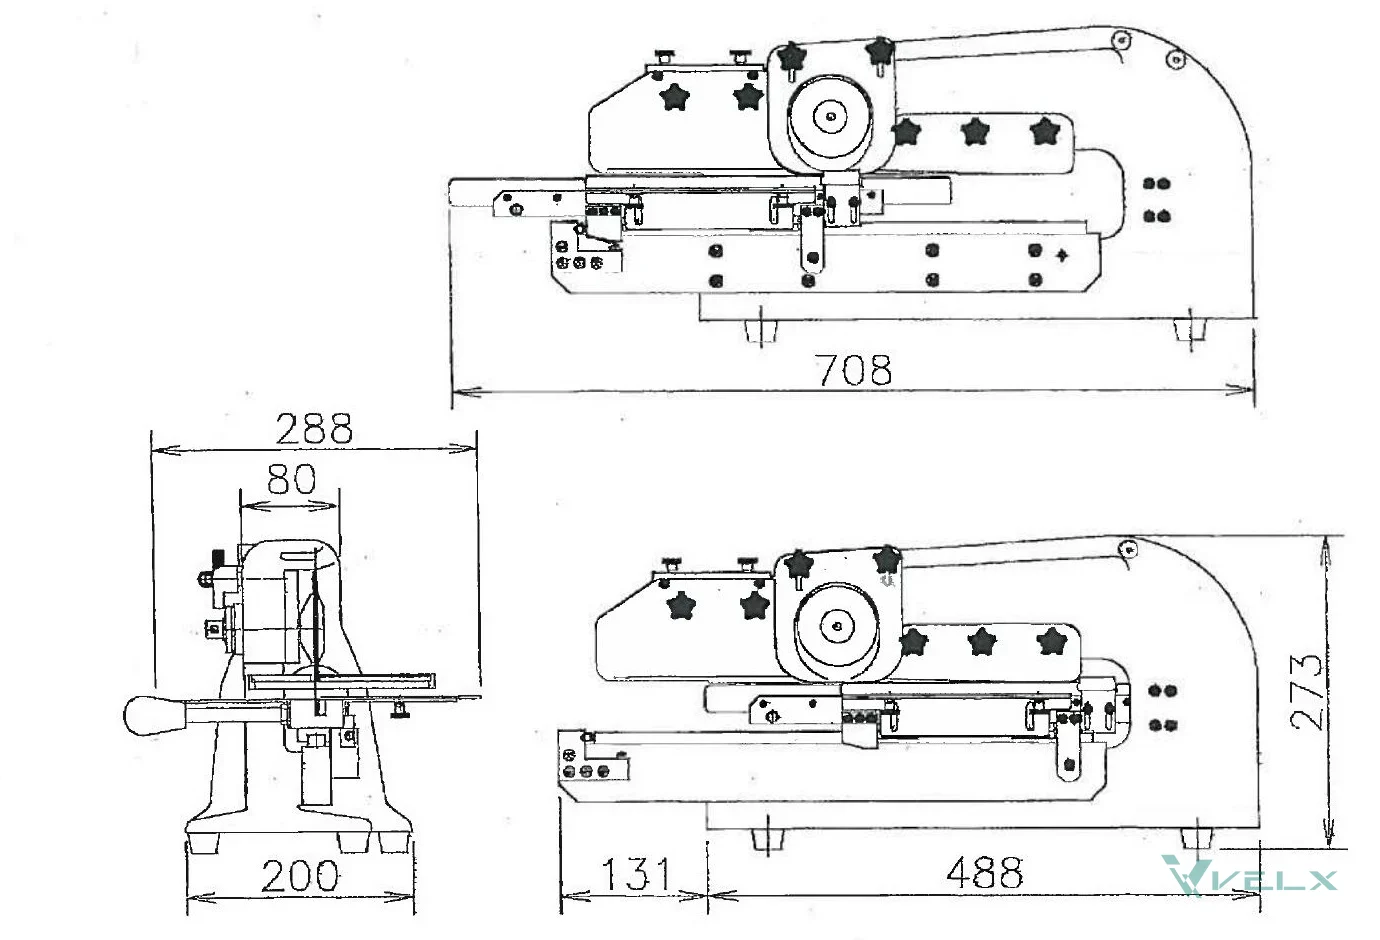
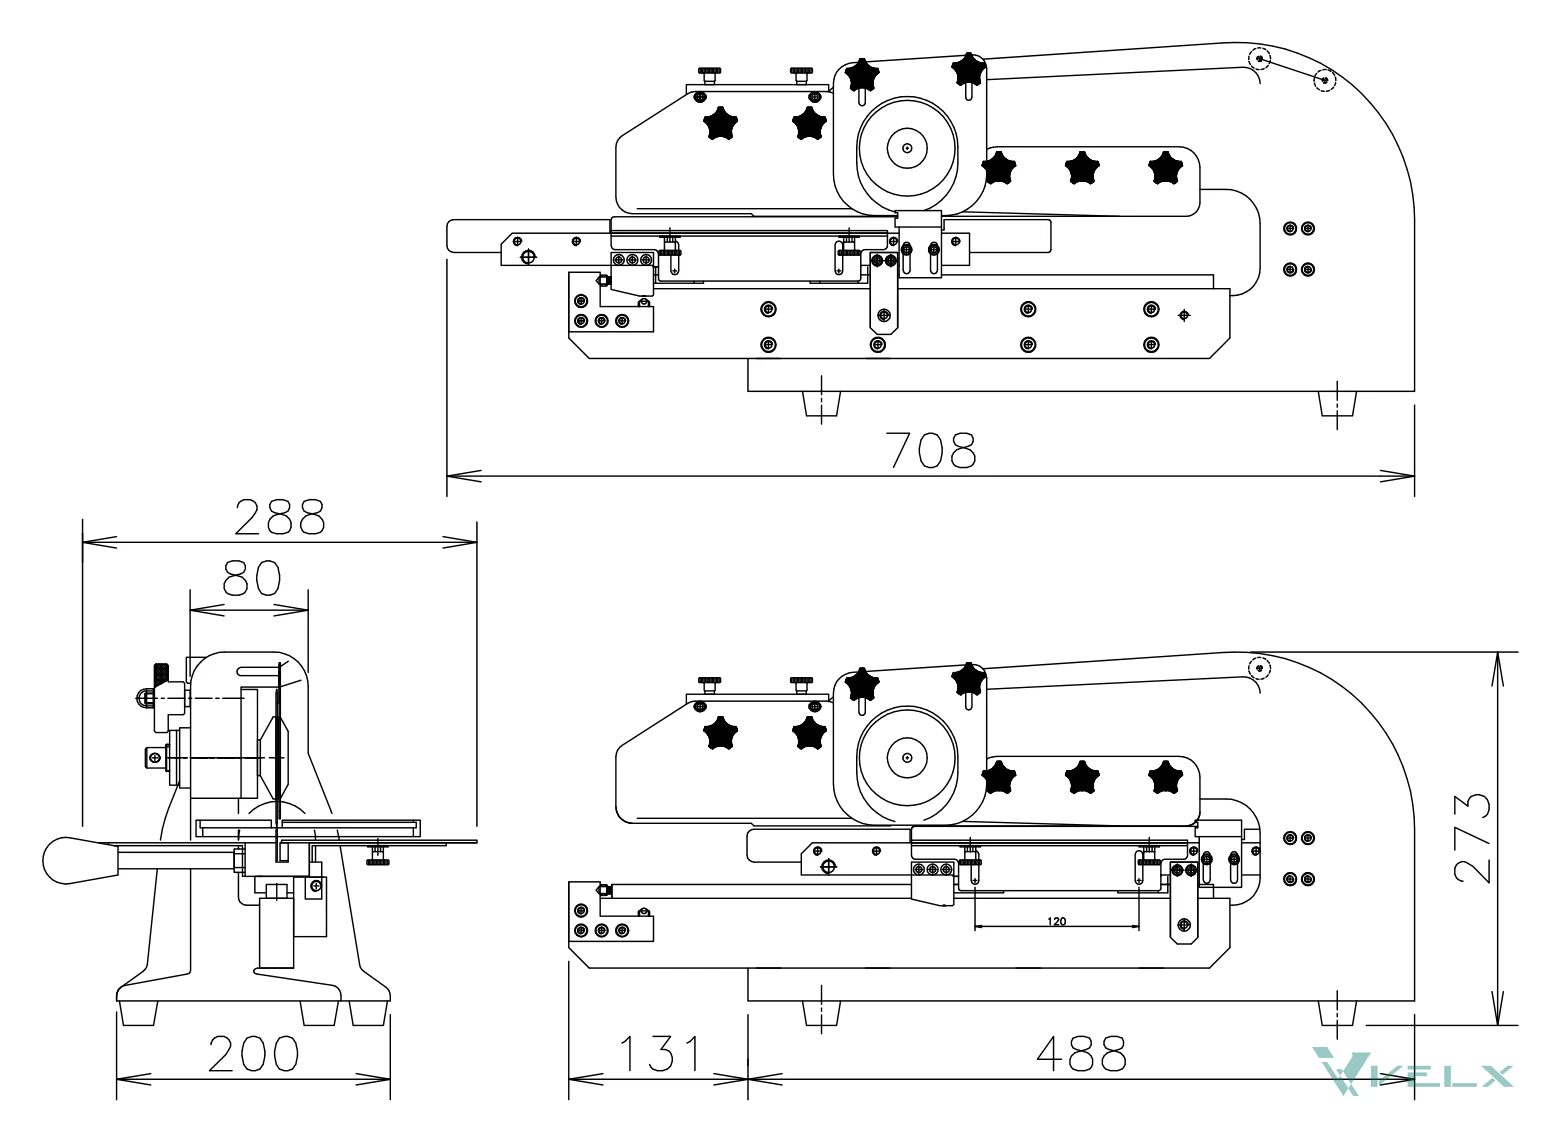
フッターロゴ表記をヴェルクス株式会社に修正

diff --git a/owner.html b/owner.html
@@ -90,104 +90,71 @@
     <div class="section-label">FOR OWNERS</div>
     <h2 class="section-h2">ご購入者様専用ページ</h2>
     <div class="section-divider"></div>
-    <p class="section-lead">取扱説明書に記載のパスワードを入力すると、刃の交換手順などの解説動画をご覧いただけます。</p>
+    <p class="section-lead">取扱説明書に記載のパスワードを入力すると、ご購入いただいた機種の刃の交換手順などの解説動画をご覧いただけます。</p>
   </div>
 
   <div id="gate" class="gate-box">
     <label for="pw" class="gate-label">パスワード</label>
     <div class="gate-row">
-      <input id="pw" type="password" autocomplete="off" inputmode="latin" placeholder="説明書に記載のパスワード" class="gate-input">
+      <input id="pw" type="password" autocomplete="off" inputmode="latin" placeholder="取扱説明書に記載のパスワード" class="gate-input">
       <button id="pw-btn" class="btn-primary" type="button">動画を見る</button>
     </div>
     <p id="pw-msg" class="gate-msg" aria-live="polite"></p>
-    <p class="gate-note">※ 本ページの動画は、VELX製品をご購入いただいたお客様向けの資料です。パスワードの第三者への共有はご遠慮ください。</p>
+    <p class="gate-note">※ パスワードは機種ごとに異なり、ご購入いただいた機種の解説動画のみご覧いただけます。第三者への共有はご遠慮ください。</p>
   </div>
 
   <div id="videos" hidden>
-    <div class="subh" style="margin-top:32px;">刃の交換方法</div>
-    <p class="crk-p" style="margin-bottom:12px;">上刃・下刃の交換手順です。作業は必ず電源を切ってから行ってください。</p>
-    <div class="dwg-grid" style="grid-template-columns:repeat(auto-fit,minmax(340px,1fr));gap:24px;margin-top:12px;">
-    <div class="dwg-card">
-      <div class="dwg-head"><span class="dwg-model" style="font-size:1.1rem;">EM-260 刃の交換方法</span><span class="dwg-note">シングル機種（手動）EM-260</span></div>
-      <div class="video-frame"><iframe src="https://www.youtube-nocookie.com/embed/100VCb46JAQ?rel=0&modestbranding=1" title="EM-260 刃の交換方法" loading="lazy" allow="accelerometer; autoplay; clipboard-write; encrypted-media; gyroscope; picture-in-picture; web-share" allowfullscreen referrerpolicy="strict-origin-when-cross-origin"></iframe></div>
-    </div>
-    <div class="dwg-card">
-      <div class="dwg-head"><span class="dwg-model" style="font-size:1.1rem;">EM-360 刃の交換方法</span><span class="dwg-note">シングル機種（手動）EM-360</span></div>
-      <div class="video-frame"><iframe src="https://www.youtube-nocookie.com/embed/T94EBrJYfXw?rel=0&modestbranding=1" title="EM-360 刃の交換方法" loading="lazy" allow="accelerometer; autoplay; clipboard-write; encrypted-media; gyroscope; picture-in-picture; web-share" allowfullscreen referrerpolicy="strict-origin-when-cross-origin"></iframe></div>
-    </div>
-    <div class="dwg-card">
-      <div class="dwg-head"><span class="dwg-model" style="font-size:1.1rem;">EM-460 刃の交換方法</span><span class="dwg-note">シングル機種（手動）EM-460</span></div>
-      <div class="video-frame"><iframe src="https://www.youtube-nocookie.com/embed/o46C6jXYqPE?rel=0&modestbranding=1" title="EM-460 刃の交換方法" loading="lazy" allow="accelerometer; autoplay; clipboard-write; encrypted-media; gyroscope; picture-in-picture; web-share" allowfullscreen referrerpolicy="strict-origin-when-cross-origin"></iframe></div>
-    </div>
-    <div class="dwg-card">
-      <div class="dwg-head"><span class="dwg-model" style="font-size:1.1rem;">EM-260M 刃の交換方法</span><span class="dwg-note">モーター機種 EM-260M</span></div>
-      <div class="video-frame"><iframe src="https://www.youtube-nocookie.com/embed/Q6uzg2i1Xq8?rel=0&modestbranding=1" title="EM-260M 刃の交換方法" loading="lazy" allow="accelerometer; autoplay; clipboard-write; encrypted-media; gyroscope; picture-in-picture; web-share" allowfullscreen referrerpolicy="strict-origin-when-cross-origin"></iframe></div>
-    </div>
-    <div class="dwg-card">
-      <div class="dwg-head"><span class="dwg-model" style="font-size:1.1rem;">EM-360M 刃の交換方法</span><span class="dwg-note">モーター機種 EM-360M</span></div>
-      <div class="video-frame"><iframe src="https://www.youtube-nocookie.com/embed/wOZz5q6a_4Q?rel=0&modestbranding=1" title="EM-360M 刃の交換方法" loading="lazy" allow="accelerometer; autoplay; clipboard-write; encrypted-media; gyroscope; picture-in-picture; web-share" allowfullscreen referrerpolicy="strict-origin-when-cross-origin"></iframe></div>
-    </div>
-    <div class="dwg-card">
-      <div class="dwg-head"><span class="dwg-model" style="font-size:1.1rem;">EM-460M 刃の交換方法</span><span class="dwg-note">モーター機種 EM-460M</span></div>
-      <div class="video-frame"><iframe src="https://www.youtube-nocookie.com/embed/TL4uD5UUozs?rel=0&modestbranding=1" title="EM-460M 刃の交換方法" loading="lazy" allow="accelerometer; autoplay; clipboard-write; encrypted-media; gyroscope; picture-in-picture; web-share" allowfullscreen referrerpolicy="strict-origin-when-cross-origin"></iframe></div>
-    </div>
-    <div class="dwg-card">
-      <div class="dwg-head"><span class="dwg-model" style="font-size:1.1rem;">スプリッター（シングル MS）刃の交換方法</span><span class="dwg-note">実装基板スプリッター MS20／MS25</span></div>
-      <div class="video-frame"><iframe src="https://www.youtube-nocookie.com/embed/Tvtu7lJP3a8?rel=0&modestbranding=1" title="スプリッター（シングル MS）刃の交換方法" loading="lazy" allow="accelerometer; autoplay; clipboard-write; encrypted-media; gyroscope; picture-in-picture; web-share" allowfullscreen referrerpolicy="strict-origin-when-cross-origin"></iframe></div>
-    </div>
-    <div class="dwg-card">
-      <div class="dwg-head"><span class="dwg-model" style="font-size:1.1rem;">スプリッター（ダブル MW）刃の交換方法</span><span class="dwg-note">実装基板スプリッター MW21／MW25</span></div>
-      <div class="video-frame"><iframe src="https://www.youtube-nocookie.com/embed/VJiZvf9jNRk?rel=0&modestbranding=1" title="スプリッター（ダブル MW）刃の交換方法" loading="lazy" allow="accelerometer; autoplay; clipboard-write; encrypted-media; gyroscope; picture-in-picture; web-share" allowfullscreen referrerpolicy="strict-origin-when-cross-origin"></iframe></div>
-    </div>
-    </div>
-    <div class="subh" style="margin-top:32px;">刃のギャップ（隙間）調整</div>
-    <p class="crk-p" style="margin-bottom:12px;">上刃と下刃の隙間の合わせ方です。刃を交換したあとは必ず確認してください。</p>
-    <div class="dwg-grid" style="grid-template-columns:repeat(auto-fit,minmax(340px,1fr));gap:24px;margin-top:12px;">
-    <div class="dwg-card">
-      <div class="dwg-head"><span class="dwg-model" style="font-size:1.1rem;">EMW-360 / EMW-460 ギャップ調整</span><span class="dwg-note">ダブル機種（シングル機種も同じ手順です）</span></div>
-      <div class="video-frame"><iframe src="https://www.youtube-nocookie.com/embed/CcWueVFVA6g?rel=0&modestbranding=1" title="EMW-360 / EMW-460 ギャップ調整" loading="lazy" allow="accelerometer; autoplay; clipboard-write; encrypted-media; gyroscope; picture-in-picture; web-share" allowfullscreen referrerpolicy="strict-origin-when-cross-origin"></iframe></div>
-    </div>
-    <div class="dwg-card">
-      <div class="dwg-head"><span class="dwg-model" style="font-size:1.1rem;">スプリッター（シングル MS）ギャップ調整</span><span class="dwg-note">実装基板スプリッター MS20／MS25</span></div>
-      <div class="video-frame"><iframe src="https://www.youtube-nocookie.com/embed/9em6K_jLOEk?rel=0&modestbranding=1" title="スプリッター（シングル MS）ギャップ調整" loading="lazy" allow="accelerometer; autoplay; clipboard-write; encrypted-media; gyroscope; picture-in-picture; web-share" allowfullscreen referrerpolicy="strict-origin-when-cross-origin"></iframe></div>
-    </div>
-    <div class="dwg-card">
-      <div class="dwg-head"><span class="dwg-model" style="font-size:1.1rem;">スプリッター（ダブル MW）ギャップ調整</span><span class="dwg-note">実装基板スプリッター MW21／MW25</span></div>
-      <div class="video-frame"><iframe src="https://www.youtube-nocookie.com/embed/98wTUg45vBQ?rel=0&modestbranding=1" title="スプリッター（ダブル MW）ギャップ調整" loading="lazy" allow="accelerometer; autoplay; clipboard-write; encrypted-media; gyroscope; picture-in-picture; web-share" allowfullscreen referrerpolicy="strict-origin-when-cross-origin"></iframe></div>
-    </div>
-    </div>
-    <div class="subh" style="margin-top:32px;">操作手順</div>
-    <p class="crk-p" style="margin-bottom:12px;">基本操作の流れです。</p>
-    <div class="dwg-grid" style="grid-template-columns:repeat(auto-fit,minmax(340px,1fr));gap:24px;margin-top:12px;">
-    <div class="dwg-card">
-      <div class="dwg-head"><span class="dwg-model" style="font-size:1.1rem;">モーター機種 操作手順</span><span class="dwg-note">EM-260M／360M／460M の手動⇔モーター切替と操作</span></div>
-      <div class="video-frame"><iframe src="https://www.youtube-nocookie.com/embed/QFiVkYADPGk?rel=0&modestbranding=1" title="モーター機種 操作手順" loading="lazy" allow="accelerometer; autoplay; clipboard-write; encrypted-media; gyroscope; picture-in-picture; web-share" allowfullscreen referrerpolicy="strict-origin-when-cross-origin"></iframe></div>
-    </div>
-    <div class="dwg-card">
-      <div class="dwg-head"><span class="dwg-model" style="font-size:1.1rem;">基板スプリッター 操作手順</span><span class="dwg-note">実装基板スプリッター MS／MW の基本操作</span></div>
-      <div class="video-frame"><iframe src="https://www.youtube-nocookie.com/embed/7RYssgToTq0?rel=0&modestbranding=1" title="基板スプリッター 操作手順" loading="lazy" allow="accelerometer; autoplay; clipboard-write; encrypted-media; gyroscope; picture-in-picture; web-share" allowfullscreen referrerpolicy="strict-origin-when-cross-origin"></iframe></div>
-    </div>
-    </div>
-    <div class="note-box" style="margin-top:28px;">動画はお客様専用の限定公開です。ご不明な点は <a href="index.html#contact" style="color:var(--teal);">お問い合わせ</a> または TEL 0267-28-9853 までご連絡ください。</div>
+    <div class="subh" id="grp-name" style="margin-top:32px;"></div>
+    <p class="crk-p" id="grp-note" style="margin-bottom:12px;"></p>
+    <div class="dwg-grid" id="grid" style="grid-template-columns:repeat(auto-fit,minmax(340px,1fr));gap:24px;margin-top:12px;"></div>
+    <div class="note-box" style="margin-top:28px;">動画はご購入者様専用の限定公開です。ご不明な点は <a href="index.html#contact" style="color:var(--teal);">お問い合わせ</a> または TEL 0267-28-9853 までご連絡ください。 <a href="#" id="pw-reset" style="color:var(--teal);margin-left:12px;">別の機種のパスワードを入力</a></div>
   </div>
 </section>
 <script>
 (function(){
[2 lines of base64/hex data omitted]
   var gate=document.getElementById('gate'), vids=document.getElementById('videos'), inp=document.getElementById('pw'), btn=document.getElementById('pw-btn'), msg=document.getElementById('pw-msg');
-  function show(){ gate.hidden=true; vids.hidden=false; }
-  try { if (sessionStorage.getItem('velx_owner')==='1') show(); } catch(e) {}
-  async function sha256(s){ var b=new TextEncoder().encode(s); var d=await crypto.subtle.digest('SHA-256', b); return Array.from(new Uint8Array(d)).map(function(x){return x.toString(16).padStart(2,'0');}).join(''); }
+  var grid=document.getElementById('grid'), gname=document.getElementById('grp-name'), gnote=document.getElementById('grp-note');
+  function b64(s){ var bin=atob(s), a=new Uint8Array(bin.length); for(var i=0;i<bin.length;i++) a[i]=bin.charCodeAt(i); return a; }
+  function esc(s){ return String(s).replace(/[&<>"]/g,function(c){return {'&':'&amp;','<':'&lt;','>':'&gt;','"':'&quot;'}[c];}); }
+  function render(g){
+    gname.textContent=g.name+' ご購入者様向け解説動画';
+    gnote.textContent=g.note||'';
+    grid.innerHTML=g.items.map(function(it){
+      return '<div class="dwg-card"><div class="dwg-head"><span class="dwg-model" style="font-size:1.1rem;">'+esc(it.t)+'</span><span class="dwg-note">'+esc(it.n||'')+'</span></div>'+
+        '<div class="video-frame"><iframe src="https://www.youtube-nocookie.com/embed/'+esc(it.v)+'?rel=0&modestbranding=1" title="'+esc(it.t)+'" loading="lazy" allow="accelerometer; autoplay; clipboard-write; encrypted-media; gyroscope; picture-in-picture; web-share" allowfullscreen referrerpolicy="strict-origin-when-cross-origin"></iframe></div></div>';
+    }).join('');
+    gate.hidden=true; vids.hidden=false;
+  }
+  async function tryOpen(pw){
+    var enc=new TextEncoder();
+    var base=await crypto.subtle.importKey('raw', enc.encode(pw), 'PBKDF2', false, ['deriveKey']);
+    for(var i=0;i<BLOBS.length;i++){
+      var b=BLOBS[i];
+      try{
+        var key=await crypto.subtle.deriveKey({name:'PBKDF2', salt:b64(b.s), iterations:150000, hash:'SHA-256'}, base, {name:'AES-GCM', length:256}, false, ['decrypt']);
+        var pt=await crypto.subtle.decrypt({name:'AES-GCM', iv:b64(b.i)}, key, b64(b.c));
+        return JSON.parse(new TextDecoder().decode(pt));
+      }catch(e){}
+    }
+    return null;
+  }
+  try { var saved=sessionStorage.getItem('velx_owner_g'); if(saved){ render(JSON.parse(saved)); } } catch(e) {}
   async function check(){
     var v=(inp.value||'').trim();
     if(!v){ msg.textContent='パスワードを入力してください。'; return; }
     if(!window.crypto||!crypto.subtle){ msg.textContent='このブラウザでは認証できません。https で開き直してください。'; return; }
-    var h=await sha256(v);
-    if(h===HASH){ try{sessionStorage.setItem('velx_owner','1');}catch(e){} show(); }
+    btn.disabled=true; msg.textContent='確認中…';
+    var g=await tryOpen(v);
+    btn.disabled=false;
+    if(g){ msg.textContent=''; try{sessionStorage.setItem('velx_owner_g', JSON.stringify(g));}catch(e){} render(g); }
     else { msg.textContent='パスワードが違います。取扱説明書の記載をご確認ください。'; inp.select(); }
   }
   btn.addEventListener('click', check);
   inp.addEventListener('keydown', function(e){ if(e.key==='Enter') check(); });
+  document.getElementById('pw-reset').addEventListener('click', function(e){ e.preventDefault(); try{sessionStorage.removeItem('velx_owner_g');}catch(x){} vids.hidden=true; gate.hidden=false; inp.value=''; inp.focus(); });
+  var m=new URLSearchParams(location.search).get('m');
+  if(m){ var lead=document.querySelector('#owner .section-lead'); if(lead) lead.textContent=m+' をご購入のお客様は、取扱説明書に記載のパスワードを入力してください。'; }
 })();
 </script>
 

diff --git a/products-splitter.html b/products-splitter.html
@@ -3,7 +3,7 @@
 <head>
 <meta charset="UTF-8">
 <meta name="viewport" content="width=device-width, initial-scale=1.0">
-<meta name="description" content="MS20・MS25・MS33・MW21・MW25。小型軽量の卓上スプリッター、外形図付き。">
+<meta name="description" content="MS20・MS25・MS33・MW21・MW25。小型軽量の卓上スプリッター、外形図・部品制約図付き。">
 <title>実装基板スプリッター | 製品紹介 | VELX株式会社</title>
 <link rel="preconnect" href="https://fonts.googleapis.com">
 <link rel="preconnect" href="https://fonts.gstatic.com" crossorigin>
@@ -176,12 +176,23 @@
   </div>
   <div class="note-box">1次側と2次側の両方に隙間調整機構を搭載。高密度実装基板や難しいV溝仕様の基板のひずみをさらに低減します。分割対応基板：FR4・CEM3・紙フェノール・アルミ・銅基板（V溝加工済みのもの）。分割方式は全機種とも手動（リニアスライス方式）、上刃・下刃はチタンIP処理です。</div>
   <div class="subh">外形図</div>
+  <p class="crk-p" style="margin-bottom:8px;">単位：mm。寸法は概算値で、改良のため予告なく変更する場合があります。</p>
   <div class="dwg-grid">
     <div class="dwg-card reveal"><div class="dwg-head"><span class="dwg-model">MS20</span><span class="dwg-note">外形図（単位：mm）　※無断転載を禁じます</span></div><img src="images/dwg-ms20.webp" alt="MS20 外形図（単位：mm）" style="max-width:820px;margin:0 auto;"></div>
     <div class="dwg-card reveal"><div class="dwg-head"><span class="dwg-model">MS25</span><span class="dwg-note">外形図（単位：mm）　※無断転載を禁じます</span></div><img src="images/dwg-ms25.webp" alt="MS25 外形図（単位：mm）" style="max-width:760px;margin:0 auto;"></div>
-    <div class="dwg-card reveal"><div class="dwg-head"><span class="dwg-model">MW21</span><span class="dwg-note">外形図（単位：mm）　※無断転載を禁じます</span></div><img src="images/dwg-mw21.webp" alt="MW21 外形図（単位：mm）" style="max-width:800px;margin:0 auto;"></div>
-    <div class="dwg-card reveal"><div class="dwg-head"><span class="dwg-model">MW25</span><span class="dwg-note">外形図（単位：mm）　※無断転載を禁じます</span></div><img src="images/dwg-mw25.webp" alt="MW25 外形図（単位：mm）" style="max-width:760px;margin:0 auto;"></div>
+    <div class="dwg-card reveal"><div class="dwg-head"><span class="dwg-model">MS33</span><span class="dwg-note">外形図（単位：mm）　※無断転載を禁じます</span></div><img src="images/dwg-ms33.webp" alt="MS33 外形図（単位：mm）" style="max-width:820px;margin:0 auto;"></div>
+    <div class="dwg-card reveal"><div class="dwg-head"><span class="dwg-model">MW21</span><span class="dwg-note">外形図（単位：mm）　※無断転載を禁じます</span></div><img src="images/dwg-mw21.webp" alt="MW21 外形図（単位：mm）" style="max-width:820px;margin:0 auto;"></div>
+    <div class="dwg-card reveal"><div class="dwg-head"><span class="dwg-model">MW25</span><span class="dwg-note">外形図（単位：mm）　※無断転載を禁じます</span></div><img src="images/dwg-mw25.webp" alt="MW25 外形図（単位：mm）" style="max-width:820px;margin:0 auto;"></div>
   </div>
+  <div class="subh">部品制約図</div>
+  <p class="crk-p" style="margin-bottom:8px;">上刃・下刃の寸法と、V溝の位置から刃・テーブルまでの距離によって決まる実装部品の高さ制限（部品制約）です。図は標準刃（20度）を取り付けた状態の例で、単位は mm です。</p>
+  <div class="dwg-grid" style="grid-template-columns:repeat(auto-fit,minmax(340px,1fr));">
+    <div class="dwg-card reveal"><div class="dwg-head"><span class="dwg-model">MS20</span><span class="dwg-note">部品制約図　上面15／下面11mm　※無断転載を禁じます</span></div><img src="images/dwg-parts-ms20.webp" alt="MS20 部品制約図（単位：mm）"></div>
+    <div class="dwg-card reveal"><div class="dwg-head"><span class="dwg-model">MS33</span><span class="dwg-note">部品制約図　上面30／下面16mm　※無断転載を禁じます</span></div><img src="images/dwg-parts-ms33.webp" alt="MS33 部品制約図（単位：mm）"></div>
+    <div class="dwg-card reveal"><div class="dwg-head"><span class="dwg-model">MW21</span><span class="dwg-note">部品制約図　上面15／下面16mm　※無断転載を禁じます</span></div><img src="images/dwg-parts-mw21.webp" alt="MW21 部品制約図（単位：mm）"></div>
+    <div class="dwg-card reveal"><div class="dwg-head"><span class="dwg-model">MW25</span><span class="dwg-note">部品制約図　上面15／下面16mm　※無断転載を禁じます</span></div><img src="images/dwg-parts-mw25.webp" alt="MW25 部品制約図（単位：mm）"></div>
+  </div>
+  <p class="crk-p" style="margin-top:10px;">MS25 の部品制約図は準備中です（実装部品制限：上面15〜35／下面16mm）。</p>
   <div class="subh">交換刃</div>
   <table class="stbl">
     <tr><th>MS20用</th><td>上刃：GV1010（10度）／GV1510（15度）／GV2010（20度）　下刃：GCL1020-2／GCL1520-2／GCL2020-2／GXL2020-2</td></tr>

diff --git a/index.html b/index.html
@@ -416,7 +416,7 @@
           <polygon fill="#aaa" points="735.59 273.37 726.38 273.37 714.41 283.25 718.75 287.28"/>
           <polygon fill="#aaa" points="686.75 306.11 695.96 306.11 707.81 296.32 703.47 292.3"/>
         </svg>
-        <div style="font-size:0.6rem;color:rgba(255,255,255,0.3);letter-spacing:0.08em;margin-top:4px;">株式会社</div>
+        <div style="font-size:0.6rem;color:rgba(255,255,255,0.3);letter-spacing:0.08em;margin-top:4px;">ヴェルクス株式会社</div>
       </div>
       <p class="footer-tagline">高精度基板分割機の輸入・販売・サポート。上刃と下刃が交差しない独自設計で、実装基板を低ストレスで精密分割します。</p>
     </div>
